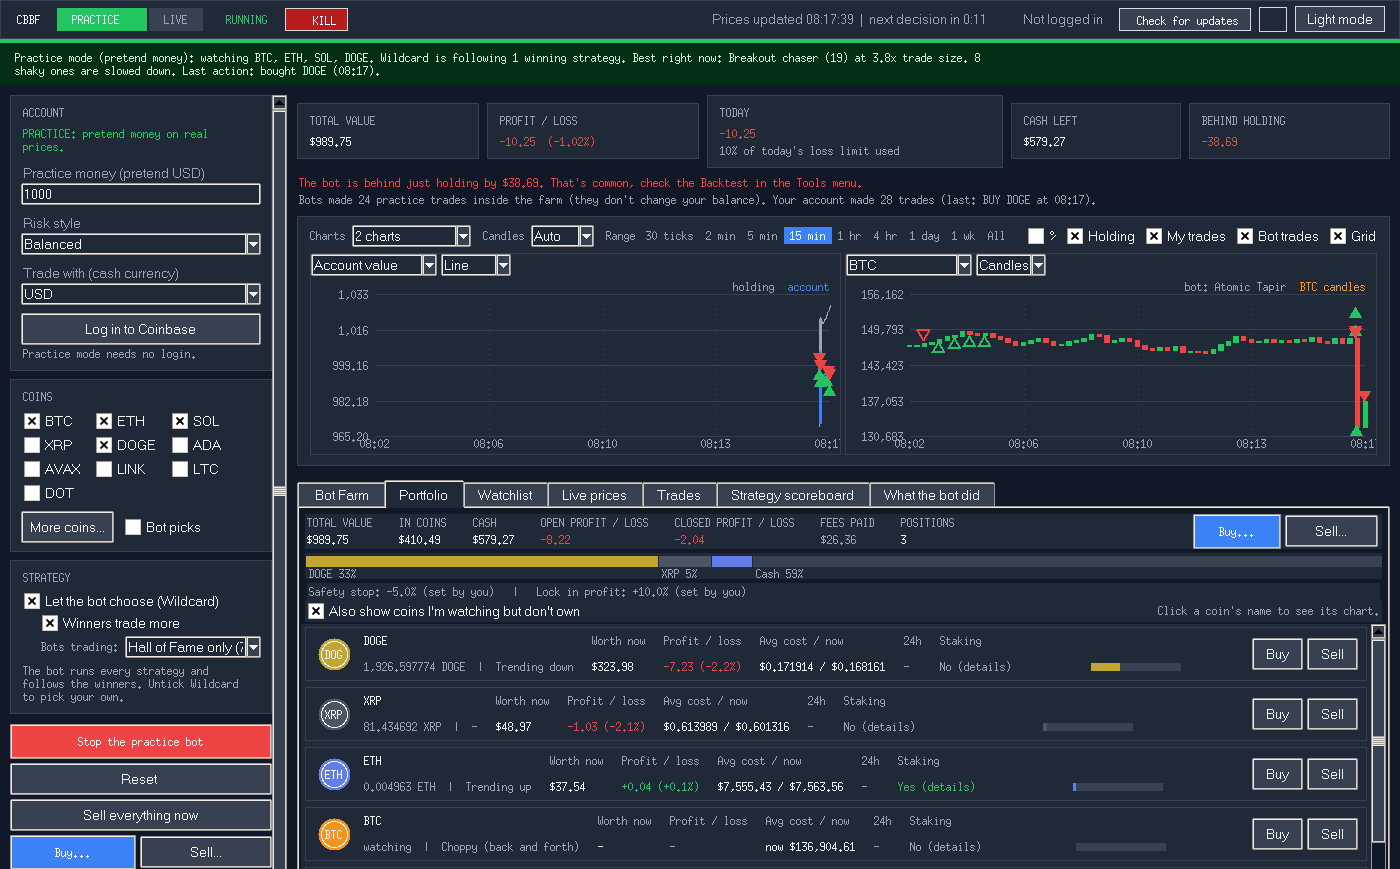
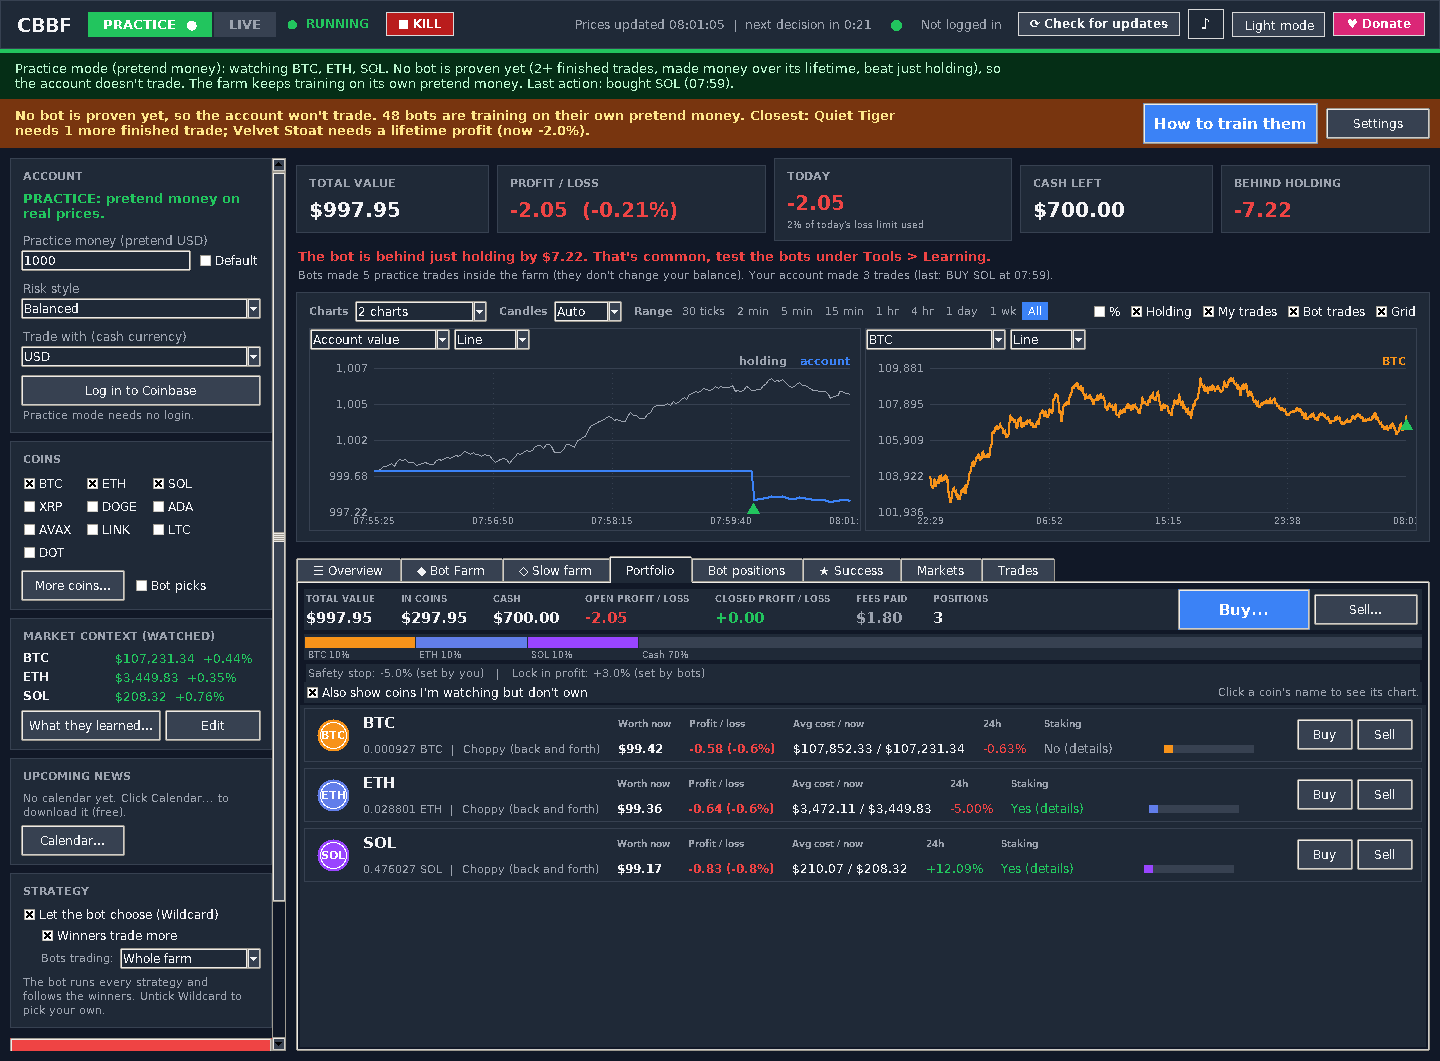
1.22.1: Donate button, new README and dark-mode screenshots
- Donate button in the top right (and Tools > Donate), opening GitHub
  Sponsors.
- README rewritten around how the farm trains, breeds and tests its
  bots, with fresh dark-mode screenshots; old screenshots removed.
- "No history" in Free roam is a note, not a crash.

Claude-Session: https://claude.ai/code/session_01BS34Qg9MHkLgsT5ZqB7Gny

diff --git a/main.py b/main.py
@@ -64,6 +64,7 @@ import engine as E
 
 # ---- Update settings: change to your GitHub "user/repo" after publishing ----
 UPDATE_REPO = "kefirman9000/cbbf"
+DONATE_URL = "https://github.com/sponsors/kefirman9000"  # the Donate button (top right)
 HERE = os.path.dirname(os.path.abspath(__file__))
 APP_SHORT = "CBBF"
 CONFIG_PATH = os.path.join(E.HOME_DIR, "config.json")
@@ -1329,10 +1330,16 @@ class App:
         self.kill_btn.pack(side="left", padx=(6, 0))
         Tip(self.kill_btn, "Kill switch: stops the bot, cancels waiting orders, sells everything at market and locks LIVE "
                            "mode until you unlock it.")
+        self.donate_btn = tk.Button(header, text="\u2665 Donate", command=lambda: webbrowser.open(DONATE_URL),
+                                    relief="flat", bd=0, bg="#db2777", fg="white", activebackground="#be185d",
+                                    activeforeground="white", padx=12, pady=3, cursor="hand2", font=("", 9, "bold"))
+        self.donate_btn.pack(side="right", padx=(0, 14))  # packed first, so it sits in the top-right corner
+        Tip(self.donate_btn, "CBBF is free and made in spare time. Donations (GitHub Sponsors) pay for new breeds, new "
+                             "tricks and more time to build them. Opens in your browser.")
         self.theme_btn = tk.Button(header, text="Light mode" if DARK else "Dark mode", command=lambda: self.set_dark(not DARK),
                                    relief="flat", bd=0, bg=LINE, fg=TEXT, activebackground=LINE, activeforeground=TEXT,
                                    padx=10, pady=3, cursor="hand2")
-        self.theme_btn.pack(side="right", padx=(0, 14))
+        self.theme_btn.pack(side="right", padx=(0, 8))
         self.mute_btn = tk.Button(header, text="\u266a off" if self.cfg.get("muted") else "\u266a", command=self.toggle_mute,
                                   relief="flat", bd=0, bg=CARD, fg=TEXT, activebackground=CARD, cursor="hand2", font=("", 11))
         self.mute_btn.pack(side="right", padx=(0, 8))
@@ -1750,6 +1757,7 @@ class App:
         m.add_command(label="Install add-ons (setup)...", command=self.open_setup)
         m.add_separator()
         m.add_command(label="Check for updates", command=self.check_update)
+        m.add_command(label="Donate (GitHub Sponsors)...", command=lambda: webbrowser.open(DONATE_URL))
         m.add_command(label="Undo last update", command=self.undo_update)
         m.add_separator()
         m.add_command(label="Export a report for Claude...", command=self.export_report)
@@ -6166,6 +6174,10 @@ class App:
                     self._roam_last = time.time()
                 except E.TrainingStopped:  # the farm changed (reset, new session): just move on
                     self.roam_now = None
+                except E.NoHistory as e:  # nothing to study there (a holiday, a gap in the data): not a crash
+                    self.roam_now = None
+                    self.roam_err = (time.time(), str(e))
+                    self._roam_last = time.time() - max(0, self.roam_wait() - 60)
                 except Exception as e:
                     self.roam_now = None
                     msg = str(e) or e.__class__.__name__

diff --git a/README.md b/README.md
@@ -1,20 +1,28 @@
-<p align="center"><img src="docs/banner.png" alt="CBBF Bot Farm" width="100%"></p>
+<p align="center"><img src="docs/banner.png" alt="CBBF" width="100%"></p>
 
-<p align="center"><b>Hatch a farm of little dragons. Let them compete, breed and evolve. Keep the legends.</b></p>
+<p align="center"><b>Hatch a farm of trading bots. Train them, breed them, test them. Only the proven ones get a say.</b></p>
 
-<p align="center"><img src="docs/screenshots/main-farm.png" alt="The farm" width="100%"></p>
+<p align="center"><img src="docs/screenshots/farm.png" alt="The farm" width="100%"></p>
 
 ## Getting started
-- **Windows:** download the latest release zip, extract the whole folder, double-click **Run CBBF.bat**
+- **Windows:** download the latest release zip, extract the whole folder, double-click **Run CBBF.bat** (or **CBBF.pyw**)
 - **Mac / Linux:** `python3 main.py` (Python 3.8 or newer with Tkinter)
+- Start in **Practice**: pretend money on real prices. Nothing real is at risk until you choose otherwise.
 
 New versions appear inside the app as an **Update** button. Nothing installs until you say yes, and
 **Tools > Undo last update** always takes you back.
 
 ---
 
+## A farm that trains itself
+CBBF isn't one trading bot. It's a farm of them, each one a little dragon with its own genes: an instinct, a set of
+rules, a sense of timing, its own stops and its own memory. They all trade on pretend money, side by side, on the same
+prices. The good ones breed, the bad ones retire, and every generation starts from what the last one learned.
+
+You don't have to write a strategy. You decide how much the farm is allowed to learn, and it does the rest.
+
 ## From egg to legend
-Every dragon climbs the same ladder, and the farm sorts them into four dens, each with its own colour:
+Every dragon climbs the same ladder, and the farm sorts them into dens:
 
 | Den | Who lives there |
 |---|---|
@@ -23,122 +31,130 @@ Every dragon climbs the same ladder, and the farm sorts them into four dens, eac
 | **BEASTS** | The dominant ones, winning again and again |
 | **Hall of Fame** | Your hand-picked champions. Only you decide who gets in |
 
-Eggs crack open when they hatch and new BEASTS let out a roar. Every dragon has **XP, health and power**, and earns
-**badges** along the way (First 10%, Crash survivor, Sharpshooter, Marathon, Dynasty, Twin-proven...).
-A pulse strip above the farm shows births, retirements, the current season and the dragon of the hour.
+Every dragon has **XP, health and power**, earns **badges**, and has a rarity from **Common** to **Legendary**. A pulse
+strip above the farm shows births, retirements, the current season and the dragon of the hour.
 
-<p align="center"><img src="docs/screenshots/farm-eggs.png" alt="Eggs" width="100%"></p>
+<p align="center"><img src="docs/screenshots/beasts.png" alt="The BEASTS den" width="100%"></p>
 
-## Breeding
-- **Eggs from winners**: the strongest dragons lay eggs, copies of themselves with small mutations.
-- **Crossbreeding**: two parents produce a child that mixes both sets of genes. Pair your favourites yourself.
-- **Royal, silver and coloured eggs**: royal eggs carry your bloodlines, silver eggs are famous breeds from history.
-- **Islands**: the farm splits into islands that breed apart and only swap a champion now and then, so the
-  gene pool stays varied.
-- **Elders**: great dragons that leave pass their wisdom on to future eggs.
-- **Seasons**: every season has a champion, and it wakes up again when its season returns.
-- **Mutation memory**: the farm notices which kinds of change make winners, and makes more of them.
-- **Natural selection**: dragons that keep failing rest, then retire to make room.
+## Only proven bots get a vote
+Being on the farm isn't enough to touch your account. A dragon only gets a say once it has a **real track record**:
 
-<p align="center"><img src="docs/screenshots/bloodlines.png" alt="Bloodlines" width="90%"></p>
+- enough **finished trades** to judge it on
+- at least one full scoring window on the farm
+- money made over its **whole life**, and more than doing nothing would have made
+- **passed exams** on days it never trained on
 
-## The Slow farm
-A second farm of slow dragons lives next door. They think in hours and days instead of minutes, rest for days or
-weeks at a time, and aim for much bigger moments. They learn from months of the past before they join in, keep
-their own wallet, and never mix with the fast farm.
+Among the proven ones, the best lifetime records get the **biggest say**. A dragon whose record slips loses its vote
+again. Everything else keeps training on its own pretend money until it earns its place. The Overview shows how many
+dragons have a vote right now, and who's leading.
 
-<p align="center"><img src="docs/screenshots/slow-farm.png" alt="The Slow farm" width="100%"></p>
+<p align="center"><img src="docs/screenshots/overview.png" alt="Overview" width="100%"></p>
 
-## A dragon's genes
+## What a dragon is made of
 Every gene is inherited, mutated and crossbred, and every dragon carries a different mix:
 
-- **A main instinct**: more than twenty breeds, from patient trend riders to pouncers and breakout jumpers
-- **Positive studies**: extra signals that vote *for* acting. **Negative studies**: signals that vote *against*
-- **A bigger-picture study** that has to agree first, and an optional **follow-the-leader** study
-- **Never-rules**: things it refuses to do, each one graded in hindsight; useful rules spread, costly ones fade
-- **Pace**, **patience**, **exits** that adapt to calm or wild times, **confidence** that scales how boldly it acts
+- **An instinct**: more than twenty breeds, from patient trend riders to dip buyers, pouncers and breakout jumpers
+- **Studies** that vote for or against acting, and a **bigger-picture** study that has to agree first
+- **Market context**: studies on things it watches but never trades, like a fear gauge or the market leader
+- **Never-rules**: things it refuses to do (no new trades before big news, none in the first minutes of the day...),
+  each one graded in hindsight; useful rules spread, costly ones fade
+- **Pace, patience, stops and targets**, exits that adapt to calm or wild times, and **confidence** that scales how
+  boldly it acts
 - **Memory**: what it's bad at, which seasons suit it, and every lesson from its tests
 
-Each layer is graded on its own, and children inherit the evidence.
+Each layer is graded on its own, and children inherit the evidence. Open any dragon's card to see its rules with the
+evidence behind each one, change whatever you like, and hatch your edit as its child. Or design an egg from scratch.
 
-<p align="center"><img src="docs/screenshots/bot-card.png" alt="A dragon's card" width="75%"></p>
+<p align="center"><img src="docs/screenshots/bot-card.png" alt="A dragon's card" width="80%"></p>
 
-## See and edit what they learned
-Open any dragon's rules with the evidence behind each one, change whatever you like, and hatch your edit as its
-child. Or design an egg from scratch.
+## How they breed
+- **Eggs from winners**: the strongest dragons lay eggs, copies of themselves with small mutations
+- **Crossbreeding**: two parents produce a child that mixes both sets of genes. Pair your favourites yourself
+- **Royal and silver eggs**: royal eggs carry your bloodlines, silver eggs hatch famous strategies from history
+- **Islands**: the farm splits into islands that breed apart and only swap a champion now and then
+- **Elders**: great dragons that leave pass their wisdom on to future eggs
+- **Seasons**: every kind of market has a champion, and it wakes up again when that season returns
+- **Mutation memory**: the farm notices which kinds of change make winners, and makes more of them
+- **Natural selection**: dragons that keep failing rest, then retire to make room
 
-<p align="center"><img src="docs/screenshots/edit-rules.png" alt="Edit rules" width="75%"></p>
+## The breeds
+- **Long-term dragons** ride trends and dips over minutes to days.
+- **The slow farm** is a second farm next door: patient dragons that think in hours and days, with their own wallet.
 
-## Learning from the past
-- **Free roam**: switch it on and the farm goes back in time by itself. It chooses its own stretches of the past
-  and its own pace, lets its dragons test themselves, sends small practice farms through, and saves every lesson.
-  A live screen shows where in the past it is right now, what it has covered, and what it has found.
-- **Training camp**: send a whole farm through days or months of history, several times over, then give the best a
-  final exam on a stretch they never saw. Graduates can join your farm or your Library.
-- **Trials**: put any single dragon through a stretch of history, with a check of every part of it, a bad-luck
-  test and a tougher-conditions test. Save the lesson to its memory, or teach the whole farm.
-- **Bot Lab**: train on one stretch, test on the next.
+## Training
+- **Free roam**: switch it on and the farm wanders off through history by itself. It picks its own stretches and pace,
+  sends dragons on trials and small practice farms, and brings every lesson home. A live screen shows where it is and what it found.
+- **Training camp**: send a whole farm through a long stretch several times over, then give the best a final exam on
+  ground they've never seen. Graduates can join your farm or your Library.
+- **Trials and backtests**: put any single dragon to the test, with a bad-luck test and a tougher-conditions test.
+- **Exams**: one day in five is held back. Dragons are examined on days they never trained on, and only the ones that
+  clearly beat luck can rise to the top.
+- **What learning is worth**: the farm tests its own learning switches (same dragons, same luck, one switch on, then
+  off) and tells you which ones really help.
 
-<p align="center"><img src="docs/screenshots/free-roam.png" alt="Free roam" width="90%"></p>
-<p align="center"><img src="docs/screenshots/training.png" alt="Training camp" width="80%"></p>
-<p align="center"><img src="docs/screenshots/backtest.png" alt="A trial" width="80%"></p>
+<p align="center"><img src="docs/screenshots/free-roam.png" alt="Free roam" width="100%"></p>
 
-## Choose what they learn
-The **Learning** page switches each kind of learning on or off, grouped into how dragons are judged, how they
-breed, which rules they can grow, what they remember, and free roam.
+## Family and bloodlines
+Every dragon remembers its parents. The **family tree** and **bloodlines** show which families keep producing winners,
+which kinds of change made the difference, and which lines died out.
 
-<p align="center"><img src="docs/screenshots/settings-learning.png" alt="Learning settings" width="85%"></p>
+<p align="center"><img src="docs/screenshots/bloodlines.png" alt="Bloodlines" width="100%"></p>
 
 ## Collect them all
-Press **Catch!** on any dragon to keep it in your **Library**, or drag it straight onto the Library or
-Hall of Fame tab.
+Press **Catch!** on any dragon to keep it in your **Library**, or drag it straight onto the Library or Hall of Fame.
 
-- Every caught dragon gets a name, a rarity from **Common** to **Legendary**, and the occasional one is **shiny**
+- Every caught dragon gets a name, a rarity, and the occasional one is **shiny**
 - Champions are re-checked every night; the ones losing their edge turn **rusty**
-- Build a **team of up to 6**, compare two dragons side by side, export the farm or your favourites to a
-  readable file, and import other people's dragons to see if they survive
-- **Undo** is always one click away
+- Build a **team of up to 6**, compare two dragons side by side, export your favourites, and import other people's
+  dragons (from SBF, OBF too) to see if they survive on your farm
 
-<p align="center"><img src="docs/screenshots/collection.png" alt="The Library" width="90%"></p>
-<p align="center"><img src="docs/screenshots/compare.png" alt="Compare" width="70%"></p>
+<p align="center"><img src="docs/screenshots/library.png" alt="The Library" width="100%"></p>
+
+## Watch it work
+The **Portfolio** shows what your account holds and why, **Bot positions** shows what every dragon is holding with its
+own pretend money, and **Success** charts who's been winning over time.
+
+<p align="center"><img src="docs/screenshots/portfolio.png" alt="Portfolio" width="100%"></p>
+<p align="center"><img src="docs/screenshots/bot-positions.png" alt="Bot positions" width="100%"></p>
+<p align="center"><img src="docs/screenshots/success.png" alt="Success" width="100%"></p>
+
+## Safety built in
+- **Practice first**: pretend money on real prices, with fees and spreads counted
+- A safety stop, lock-in profit, trailing stop, daily loss limit and a limit per position
+- It only ever sells what it holds
+- Real money needs you at the computer typing LIVE, and the **kill switch** (Account menu) stops everything,
+  cancels waiting orders, sells everything and locks LIVE
 
 ## The farm never forgets
 Close the app and come back later: the farm picks up exactly where it left off. Watch a **farm replay** of how the
 dens grew, and get a **weekly report** of what it learned.
 
-<p align="center"><img src="docs/screenshots/replay.png" alt="Farm replay" width="80%"></p>
-
 ## Make it yours
 - Dragons, simple cards or a plain list; full, light or no animation; a compact layout
-- Dark and light themes, custom sounds, keyboard shortcuts, a short guided tour
-- Farm presets (Calm, Balanced, Wild), settings profiles, one-click backup and restore
+- Dark (shown here) and light themes, custom sounds, keyboard shortcuts, a short guided tour
+- Farm presets, settings profiles, one-click backup and restore
 - Farm size up to 200, learning spread over several processor cores, and it goes quiet when minimised
 
-## More screens
-<p align="center"><img src="docs/screenshots/chart-split-candles.png" alt="Price chart with split candles" width="100%"></p>
-<p align="center"><img src="docs/screenshots/portfolio.png" alt="Portfolio" width="100%"></p>
-<p align="center"><img src="docs/screenshots/watchlist.png" alt="Watchlist" width="100%"></p>
-<p align="center"><img src="docs/screenshots/main-light.png" alt="The farm in the light theme" width="100%"></p>
-
 ## Your data
-Everything stays on your computer in `~/.cbbf/` (Windows: `C:\Users\<you>\.cbbf`). **File > Open data folder** opens it.
+Everything stays on your computer in `~/.cbbf/` (Windows: `C:\Users\<you>\.cbbf`). **File > Open data folder**
+opens it. Keys are kept in your system keychain, never in CBBF's files.
 
 ## Support the farm
-
-CBBF is free and made in spare time. If your dragons have earned their keep and you'd like to help the farm grow, you can support it on **[GitHub Sponsors](https://github.com/sponsors/kefirman9000)**: every bit goes into new breeds, new tricks and more time to build them. Starring the repo helps too.
+CBBF is free and made in spare time. If you'd like to help the farm grow, press **Donate** in the top right of the app,
+or support it on **[GitHub Sponsors](https://github.com/sponsors/kefirman9000)**: every bit goes into new breeds, new
+tricks and more time to build them. Starring the repo and sharing your best dragons helps too.
 
 ## License and disclaimer
+Copyright © 2026 kefirman9000. All rights reserved. CBBF is free to use; see [LICENSE](LICENSE) for what is and isn't
+allowed.
 
-Copyright © 2026 kefirman9000. All rights reserved. CBBF is free to use; see [LICENSE](LICENSE) for what is and isn't allowed.
-
-- **Not financial advice.** CBBF is a learning and experimentation tool. Nothing it shows is advice or a recommendation.
-- You can lose money. You alone are responsible for every action taken through your account. Always test in paper mode first and never use money you can't afford to lose.
+- **Not financial advice.** CBBF is a learning and experimentation tool. Nothing it shows is advice or a
+  recommendation.
+- You can lose money. You alone are responsible for every action taken through your account. Always practise first
+  and never use money you can't afford to lose.
 - Software can have bugs, connections can fail, and data can be late or wrong. Check your account directly.
 
-CBBF is provided **as is**, without warranty of any kind. Use it at your own risk; the author is not liable for any damage, data loss or other loss arising from its use.
+CBBF is provided **as is**, without warranty of any kind. Found a security problem? Please report it privately; see
+[SECURITY.md](SECURITY.md).
 
-Found a security problem? Please report it privately; see [SECURITY.md](SECURITY.md).
-
----
-
-Past results never guarantee future ones, even for a Legendary dragon. Use at your own risk.
+Past results never guarantee future ones, even for a Legendary dragon.

diff --git a/CHANGELOG.md b/CHANGELOG.md
@@ -1,5 +1,14 @@
 # Changelog
 
+## 1.22.1
+- **Donate button**: a pink **Donate** button in the top right (and Tools > Donate) opens CBBF's GitHub Sponsors page.
+  CBBF stays free; donations pay for new breeds, new tricks and more time to build them.
+- **Fix: "no history" isn't a crash any more.** When Free roam finds nothing to study (a holiday, a gap in the
+  data) it notes it and moves on, instead of adding an entry to crash.log and the error counter.
+- **New README and screenshots**: the page now explains how the farm trains, breeds and tests its dragons, with
+  fresh dark-mode screenshots of the farm, the BEASTS den, Overview, a dragon's card, Free roam, Bloodlines, the Library,
+  Portfolio, Bot positions and Success.
+
 ## 1.22.0
 Everything from OBF's latest updates that fits a crypto app.
 - **Only proven bots trade the account.** Your practice account and LIVE only follow bots with a real track record:
